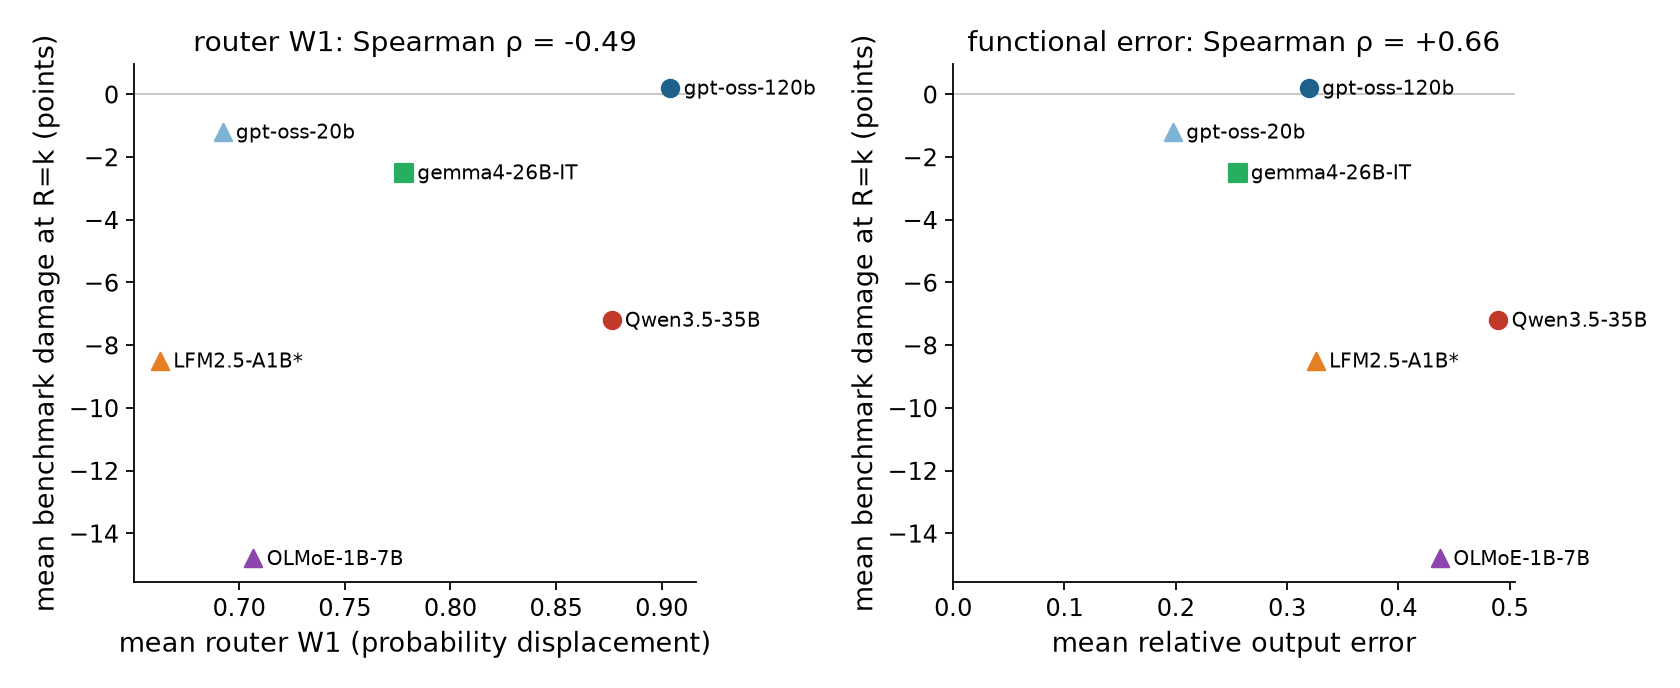
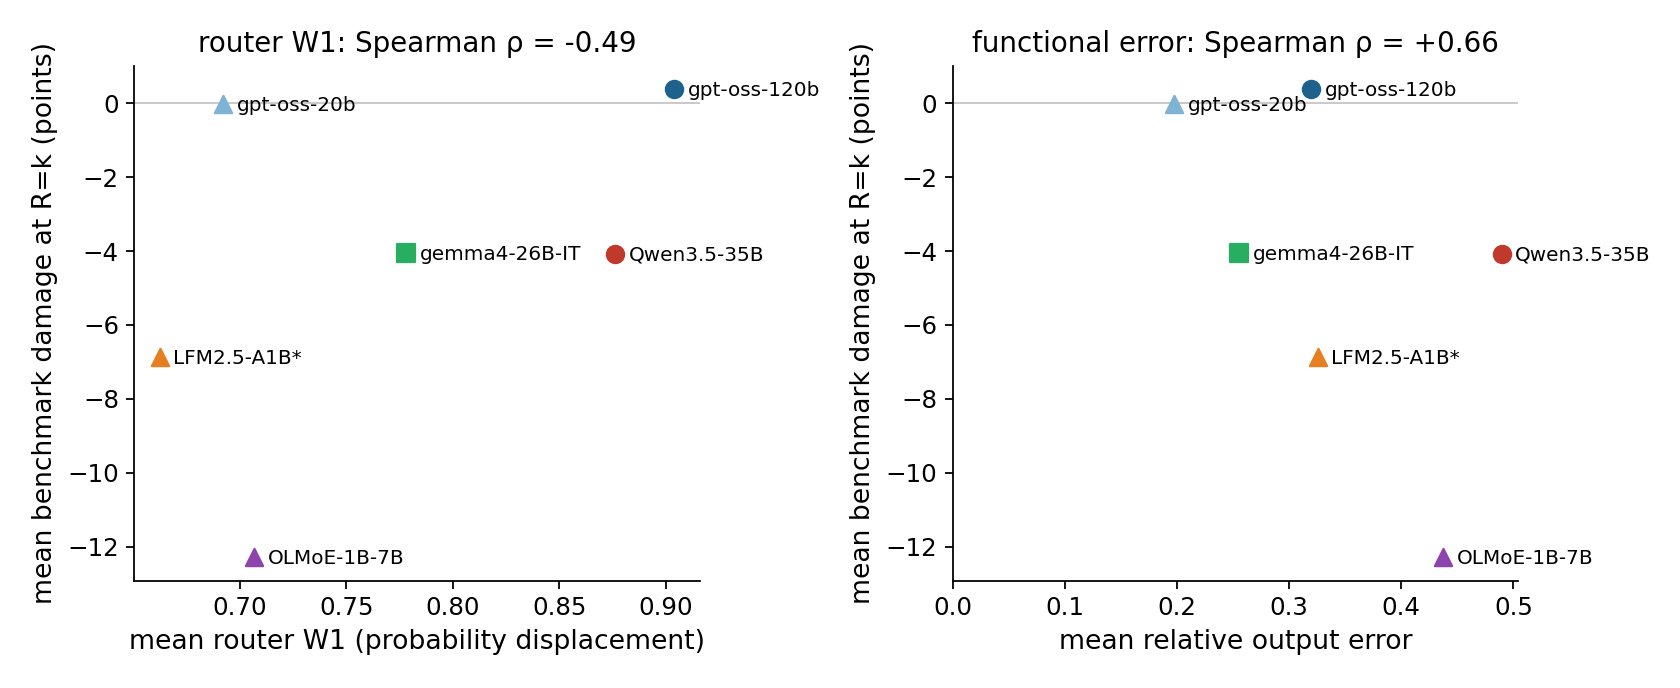
Displacement figure: four-benchmark damage from the full-set cells used by Fig. 7

diff --git a/analysis/residency/functional_displacement_figure.py b/analysis/residency/functional_displacement_figure.py
@@ -28,11 +28,11 @@ STYLE = {  # model key -> (label, color)
     "gpt-oss-20b": ("gpt-oss-20b (R4 = 12.5%)", "#7fb3d5"),
     "lfm25-8b-a1b": ("LFM2.5-A1B (R4 = 12.5%)", "#e67e22"),
 }
-# mean 4-benchmark damage at the tight arm vs own free, think off/low
-# (report.md grid; olmoe from instruct_genbench_vllm.csv; lfm think-on only)
-DAMAGE = {"gpt-oss-120b": 0.2, "qwen35-35b-a3b-instruct": -7.2,
-          "gemma4-26b-it": -2.5, "olmoe-0125-instruct": -14.8,
-          "gpt-oss-20b": -1.2, "lfm25-8b-a1b": -8.5}
+# mean 4-benchmark damage at the tight arm vs own free, think off/low (lfm think-on
+# only), from plot_instruct.load_damage(): the same full-set cells as Fig. 7 and Table 2
+DAMAGE = {"gpt-oss-120b": 0.38, "qwen35-35b-a3b-instruct": -4.07,
+          "gemma4-26b-it": -4.05, "olmoe-0125-instruct": -12.29,
+          "gpt-oss-20b": -0.02, "lfm25-8b-a1b": -6.88}
 
 def read(path, valcol):
     per = defaultdict(list)
